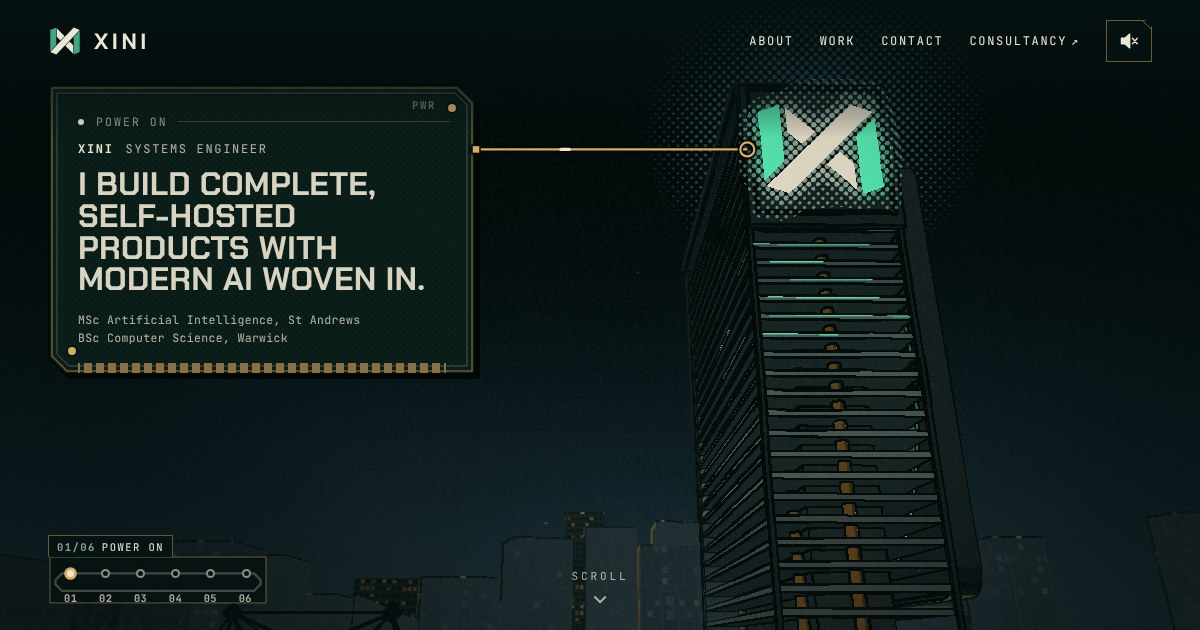
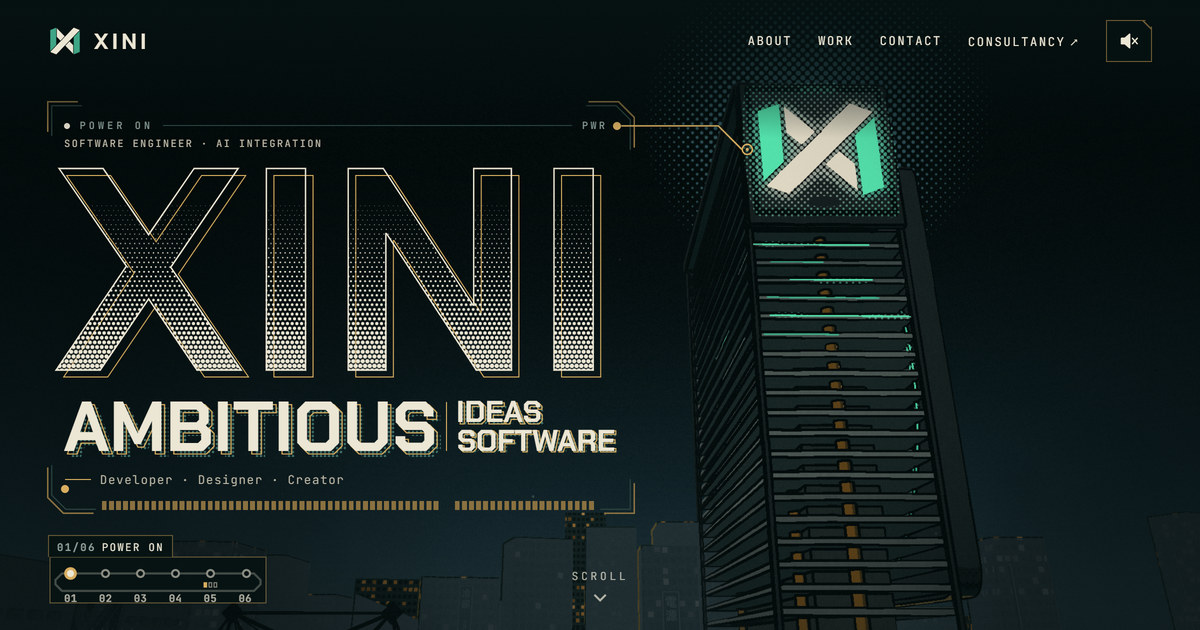
Share image: the Power on panel

diff --git a/index.html b/index.html
@@ -13,11 +13,11 @@
 <meta property="og:title" content="Xini · Software Engineer · AI Integration">
 <meta property="og:description" content="Ambitious ideas, ambitious software. I take big ideas all the way to production on my own: AI integration, real-time 3D, multiplayer backends, data, infrastructure and polished interfaces.">
 <meta property="og:url" content="https://xini.dev/">
-<meta property="og:image" content="https://xini.dev/og.jpg">
+<meta property="og:image" content="https://xini.dev/og.jpg?v=5.1">
 <meta property="og:image:type" content="image/jpeg">
 <meta property="og:image:width" content="1200">
 <meta property="og:image:height" content="630">
-<meta property="og:image:alt" content="A cooler tower lit with the Xini mark over a circuit-board city at night.">
+<meta property="og:image:alt" content="A cooler tower lit with the Xini mark over a circuit-board city at night, beside the name XINI and the line: Ambitious ideas, ambitious software.">
 <meta name="twitter:card" content="summary_large_image">
 <link rel="icon" href="/favicon.ico" sizes="32x32">
 <link rel="icon" href="/favicon.svg" type="image/svg+xml">
